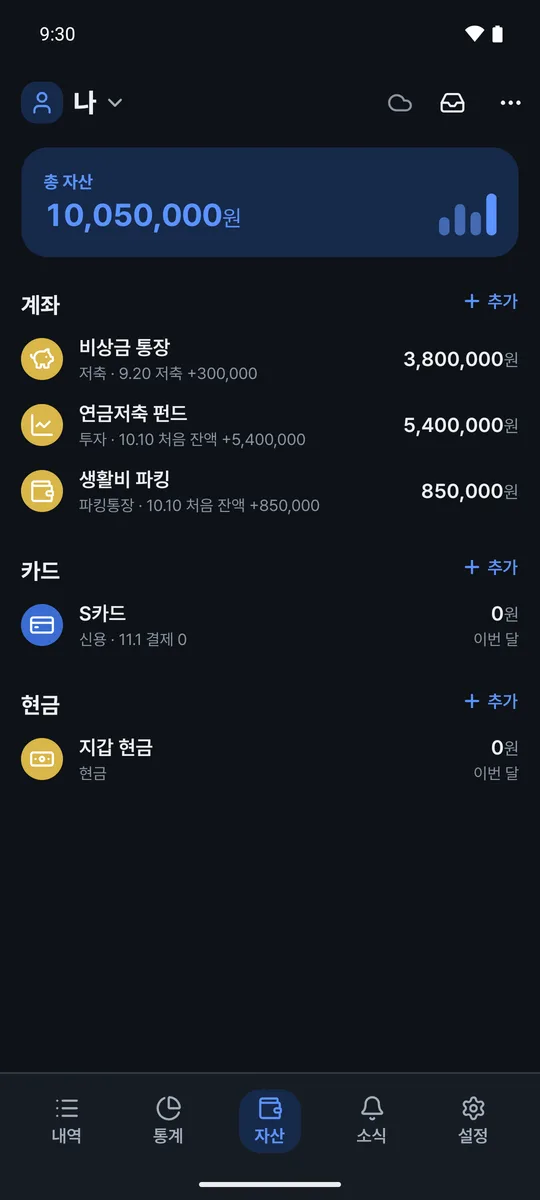
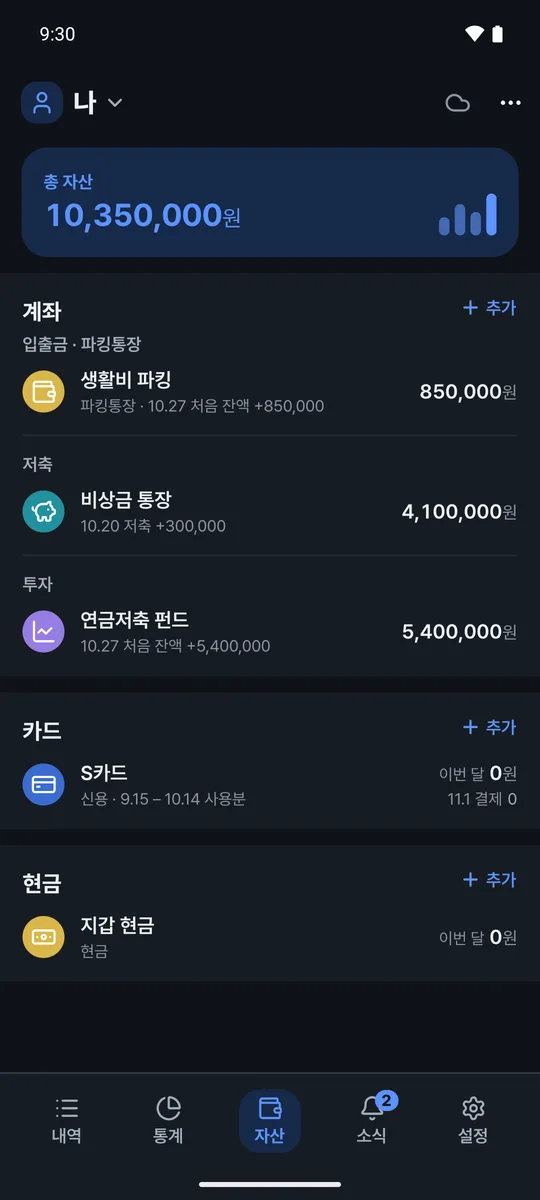
chore: 화면 사진을 최신 앱(develop)으로 다시 찍기
10월 24일에 찍은 뒤 앱의 통계가 월간지표 · 연간지표 · 지출 분포 페이지로 바뀌고, 자산 탭이 띠 · 종류별 묶음 ·
종류 색으로, 여행 통계가 여행지표로, 위저드 버튼이 아래 고정으로 바뀌어 사진이 지금 앱과 달랐다.
같은 예시 데이터(가족 「달빛네」 · 오사카 여행)를 로컬 서버에 새로 넣고 같은 조건(밝게 · 글자 기본 · 9:30)으로
열 장을 다시 찍었다. 알림함 · 자동 기록 둘은 개발 빌드에서만 열리는 화면이라 그대로 두었다 — 그 뒤 바뀐 것은
긴 목록을 나눠 그리는 내부 변경뿐이라 모양이 같다.
새로 더한 넷(자산 밝게 · 지출 분포 · 연간지표 · 가족 연간지표)은 내 가계부 칸과 통계 구역이 쓴다.
내 가계부 칸의 두 번째 사진은 통계 요약 대신 자산 — 요약은 통계 구역으로 옮겼다.

diff --git a/src/components/home/Ledgers.tsx b/src/components/home/Ledgers.tsx
@@ -27,12 +27,12 @@ const LEDGERS: Ledger[] = [
     ],
     shots: [
       {
-        shot: "personal-glance",
-        alt: "내 가계부 통계 요약 화면 예시. 9월 총 지출과 수입 · 저축 · 투자, 이 달 예산이 보여요.",
-      },
-      {
         shot: "personal-calendar",
         alt: "내 가계부 달력 화면 예시. 날짜마다 그날의 지출과 수입이 적혀 있어요.",
+      },
+      {
+        shot: "assets",
+        alt: "내 가계부 자산 화면 예시. 총 자산 아래에 계좌 · 카드 · 현금이 종류별로 묶여 있어요.",
       },
     ],
   },
@@ -54,7 +54,7 @@ const LEDGERS: Ledger[] = [
       },
       {
         shot: "family-summary",
-        alt: "가족 가계부 요약 화면 예시. 이번 달 달라진 항목과 그 차액이 모여 있어요.",
+        alt: "가족 가계부 월간지표 화면 예시. 9월 총 지출과 이번 달 달라진 항목, 그 차액이 모여 있어요.",
       },
     ],
   },
@@ -76,7 +76,7 @@ const LEDGERS: Ledger[] = [
       },
       {
         shot: "trip-settlement",
-        alt: "여행 정산 화면 예시. 동행 사이에 누가 누구에게 얼마를 보내면 되는지 보여요.",
+        alt: "여행지표 화면 예시. 여행에서 쓴 돈과 남은 예산, 동행 사이에 누가 누구에게 얼마를 보내면 되는지 보여요.",
       },
     ],
   },

diff --git a/src/components/home/Features.tsx b/src/components/home/Features.tsx
@@ -112,11 +112,11 @@ export function Features() {
             <div className="tile-shots">
               <Phone
                 shot="glance-pink"
-                alt="핑크 강조색을 고른 통계 요약 화면 예시. 10월 총 지출과 이 달 예산이 보여요."
+                alt="핑크 강조색을 고른 월간지표 화면 예시. 10월 총 지출과 이 달 예산이 보여요."
               />
               <Phone
                 shot="personal-spend-dark"
-                alt="어둡게로 본 통계 화면 예시. 분류별 지출 도넛과 목록이 보여요."
+                alt="어둡게로 본 지출 분포 화면 예시. 분류별 지출 도넛과 목록이 보여요."
               />
             </div>
           </article>
